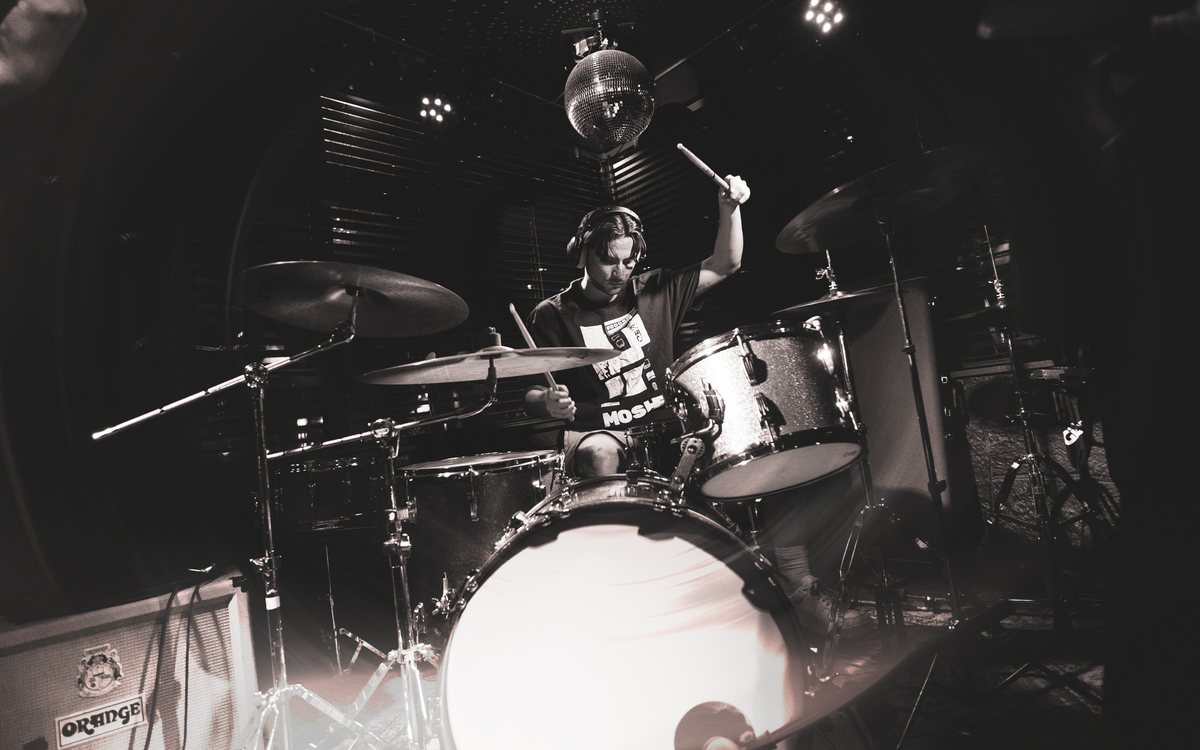
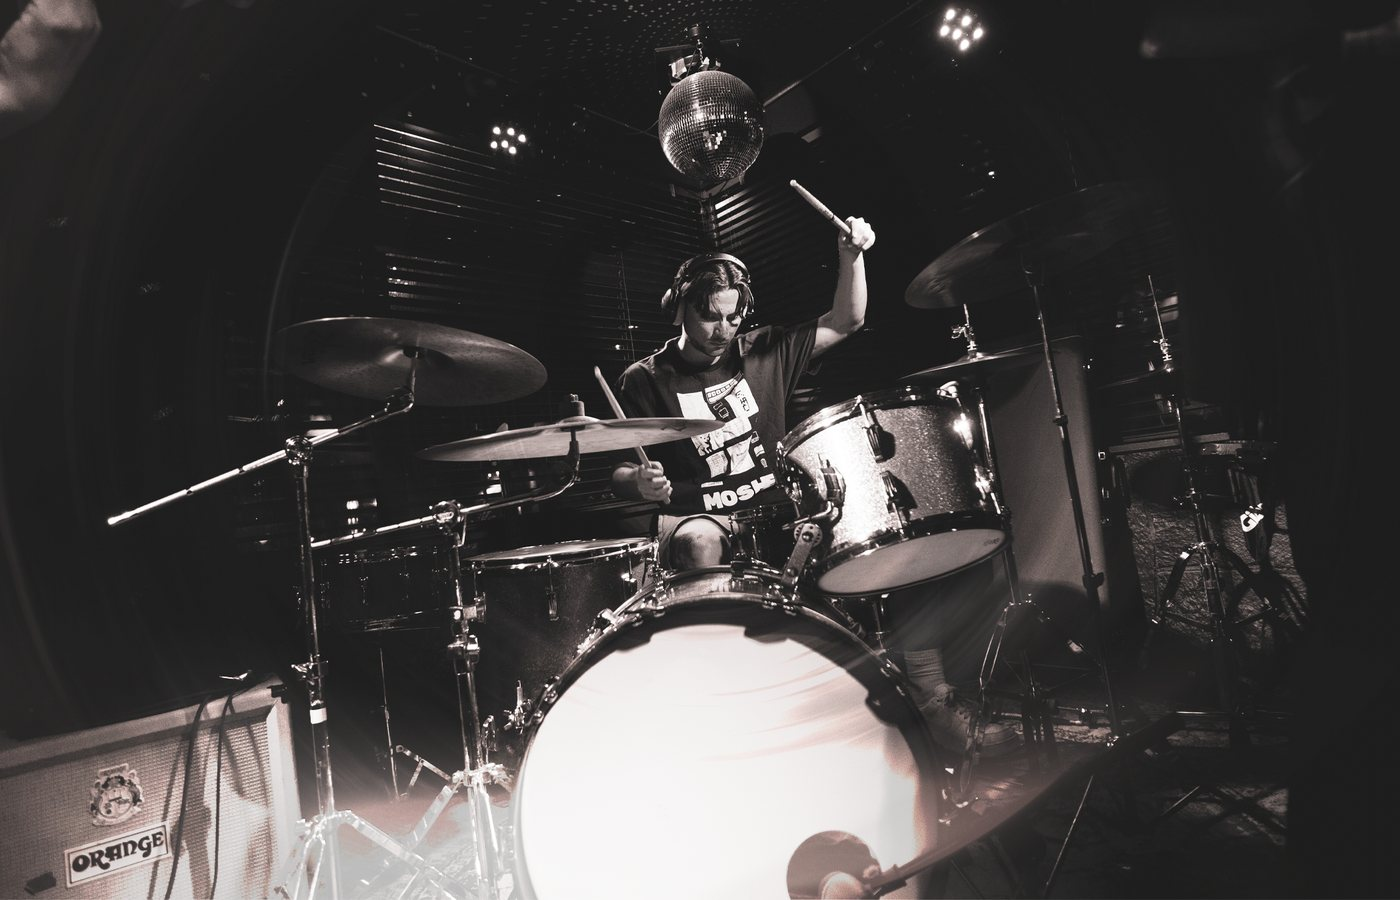
Real testimonials; natural photo treatment for bio, services, and live section
Claude-Session: https://claude.ai/code/session_01Apz1TNFNA7yt9g6RLvQNcU

diff --git a/styles.css b/styles.css
@@ -174,23 +174,16 @@ body.modal-open{overflow:hidden}
 @media (max-width:560px){.svc-grid{grid-template-columns:1fr;max-width:460px}}
 .svc{
   position:relative;display:flex;flex-direction:column;overflow:hidden;
-  border-radius:18px;
-  background:linear-gradient(180deg,rgba(28,18,44,.72) 0%,rgba(14,10,22,.82) 100%);
-  border:1px solid rgba(192,132,252,.2);
-  transition:transform .35s cubic-bezier(.2,.7,.2,1),border-color .3s ease,background .3s ease,box-shadow .35s ease;
+  border-radius:8px;background:#0e0b14;
+  border:1px solid rgba(255,255,255,.12);
+  transition:transform .3s ease,border-color .3s ease,background .3s ease;
 }
-.svc.reveal.in:hover{
-  transform:translateY(-8px);
-  border-color:rgba(192,132,252,.6);
-  background:linear-gradient(180deg,rgba(42,26,68,.82) 0%,rgba(20,13,32,.9) 100%);
-  box-shadow:0 22px 48px rgba(0,0,0,.5);
-}
-.svc.reveal{transition:opacity .8s ease,transform .35s cubic-bezier(.2,.7,.2,1),border-color .3s ease,background .3s ease,box-shadow .35s ease}
-.svc-media{position:relative;aspect-ratio:4/3;overflow:hidden;background:#0c0912}
-.svc-media img{width:100%;height:100%;object-fit:cover;transition:transform .9s cubic-bezier(.2,.7,.2,1)}
+.svc.reveal{transition:opacity .8s ease,transform .3s ease,border-color .3s ease,background .3s ease}
+.svc.reveal.in:hover{transform:translateY(-6px);border-color:rgba(192,132,252,.55);background:#141019}
+.svc-media{position:relative;aspect-ratio:4/3;overflow:hidden;background:#0c0912;margin:10px 10px 0;border-radius:4px}
+.svc-media img{width:100%;height:100%;object-fit:cover;display:block}
 .svc-media img.mic{object-position:center 42%}
-.svc:hover .svc-media img{transform:scale(1.04)}
-.svc-body{display:flex;flex-direction:column;flex:1;padding:24px 26px 28px}
+.svc-body{display:flex;flex-direction:column;flex:1;padding:22px 22px 26px}
 .svc h3{font-weight:700;font-size:clamp(21px,1.7vw,25px);letter-spacing:-0.02em;line-height:1.2;margin-bottom:10px}
 .svc p{font-size:15px;line-height:1.65;color:var(--ink-soft);margin-bottom:24px;flex:1}
 .svc .btn{align-self:flex-start;white-space:nowrap;font-size:11.5px;letter-spacing:.1em;padding:11px 18px}
@@ -327,12 +320,14 @@ body.modal-open{overflow:hidden}
 .about-row.right .about-photo{order:2}
 .about-row.right .about-text{order:1;text-align:right;border-left:none;border-right:2px solid var(--brand);padding-left:0;padding-right:30px;margin-left:auto}
 .about-row.right .about-ctas{justify-content:flex-end}
-.about-photo{position:relative;border-radius:20px;overflow:hidden;aspect-ratio:4/5;background:#111}
+.about-photo{position:relative;border-radius:4px;overflow:hidden;aspect-ratio:4/5;background:#111}
 .about-photo img{width:100%;height:100%;object-fit:cover;object-position:52% center;display:block}
-.about-photo.split{display:grid;grid-template-rows:1fr 1fr;gap:4px;background:var(--bg)}
-.about-photo.split img{height:100%;min-height:0;object-position:center}
-.about-photo.split img:first-child{object-position:center 20%}
-.about-photo::after{content:"";position:absolute;inset:0;box-shadow:inset 0 0 0 1px rgba(255,255,255,.1);border-radius:inherit;pointer-events:none}
+.about-prints{position:relative;padding-bottom:22%}
+.about-prints img{display:block}
+.print-stage{width:92%;height:auto;border-radius:3px}
+.print-young{position:absolute;right:0;bottom:0;width:44%;height:auto;
+  padding:8px 8px 26px;background:#f2efe9;border-radius:2px;
+  transform:rotate(2.5deg);box-shadow:0 14px 30px rgba(0,0,0,.55)}
 .about-text{max-width:600px;border-left:2px solid var(--brand);padding-left:30px}
 .about-text .hello{font-weight:600;font-size:clamp(22px,2.1vw,28px);line-height:1.35;letter-spacing:-0.015em;margin-bottom:20px}
 .about-text .hello span{color:var(--purple-bright)}
@@ -345,7 +340,7 @@ body.modal-open{overflow:hidden}
 .about-row.in{opacity:1;transform:none}
 @media (max-width:900px){
   .about-row,.about-row.right{grid-template-columns:1fr;gap:28px}
-  .about-photo{max-width:440px;width:100%;margin:0 auto}
+  .about-photo,.about-prints{max-width:440px;width:100%;margin:0 auto}
   .about-row.right .about-photo{order:0}
   .about-row.right .about-text{order:1;text-align:left;border-right:none;border-left:2px solid var(--brand);padding-right:0;padding-left:22px;margin-left:0}
   .about-row.right .about-ctas{justify-content:flex-start}
@@ -355,24 +350,21 @@ body.modal-open{overflow:hidden}
 /* =========================================================
    LIVE SOUND
    ========================================================= */
-.live .bg-media img{object-position:center 42%;filter:brightness(2.1) contrast(1.05) saturate(1.1)}
-.live .bg-shade{background:linear-gradient(180deg,var(--bg) 0%,rgba(6,4,9,.74) 14%,rgba(6,4,9,.8) 86%,var(--bg) 100%)}
-.live .section-head{margin-bottom:clamp(24px,3vw,36px)}
-.live-wrap{max-width:860px;margin:0 auto}
-.live-summary{font-size:clamp(16px,1.25vw,18px);line-height:1.75;color:var(--ink-soft);text-align:center;max-width:720px;margin:0 auto clamp(32px,4vw,44px)}
-.live-panel{
-  display:grid;grid-template-columns:minmax(0,1.15fr) minmax(0,1fr);gap:clamp(24px,4vw,48px);
-  border-radius:18px;padding:clamp(24px,3vw,34px) clamp(22px,3.4vw,40px);
-  background:rgba(12,10,16,.6);border:1px solid rgba(255,255,255,.12);
-  backdrop-filter:blur(14px);-webkit-backdrop-filter:blur(14px);
-}
-.live-panel h3{font-weight:600;font-size:12px;letter-spacing:.2em;text-transform:uppercase;color:var(--purple-bright);margin-bottom:14px}
+.live-layout{display:grid;grid-template-columns:minmax(0,.9fr) minmax(0,1.1fr);gap:clamp(32px,5vw,72px);align-items:center;max-width:1140px;margin:0 auto}
+.live-photo{margin:0}
+.live-photo img{display:block;width:100%;height:auto;border-radius:4px}
+.live-summary{font-size:clamp(16px,1.2vw,17.5px);line-height:1.75;color:var(--ink-soft);margin-bottom:30px}
+.live-lists{display:grid;grid-template-columns:repeat(2,minmax(0,1fr));gap:clamp(20px,3vw,40px);margin-bottom:32px}
+.live-lists h3{font-weight:600;font-size:12px;letter-spacing:.2em;text-transform:uppercase;color:var(--purple-bright);margin-bottom:10px}
 .live-list{list-style:none;margin:0;padding:0}
-.live-list li{font-size:15.5px;line-height:1.5;color:var(--ink-soft);padding:9px 0;border-bottom:1px solid var(--line)}
+.live-list li{font-size:15.5px;line-height:1.5;color:var(--ink-soft);padding:8px 0;border-bottom:1px solid var(--line)}
 .live-list li:last-child{border-bottom:none}
 .live-list li.top{color:#fff;font-weight:500}
-.live-ctas{display:flex;justify-content:center;margin-top:clamp(28px,3.5vw,40px)}
-@media (max-width:700px){.live-panel{grid-template-columns:1fr}}
+@media (max-width:900px){
+  .live-layout{grid-template-columns:1fr}
+  .live-photo{max-width:480px;margin:0 auto}
+}
+@media (max-width:480px){.live-lists{grid-template-columns:1fr}}
 
 /* =========================================================
    TESTIMONIALS — staggered rows
@@ -608,9 +600,6 @@ body.modal-open{overflow:hidden}
   *,*::before,*::after{animation:none!important;transition:none!important}
   .reveal,.from-left,.from-right{opacity:1;transform:none}
 }
-/* Testimonials hidden for now: title only */
-.testimonials{padding-bottom:clamp(20px,3vw,40px)}
-.testimonials .section-head{margin-bottom:0}
 
 /* ---------- Mobile polish ---------- */
 @supports (overflow:clip){html,body{overflow-x:clip}}

diff --git a/index.html b/index.html
@@ -141,9 +141,9 @@
     </header>
     <div class="about-rows">
       <div class="about-row from-left">
-        <div class="about-photo split">
-          <img src="assets/about-young.jpg" alt="Jack as a kid behind his first drum kit" loading="lazy">
-          <img src="assets/about-stage.jpg" alt="Jack playing drums on stage" loading="lazy">
+        <div class="about-prints">
+          <img class="print-stage" src="assets/about-stage.jpg" alt="Jack playing drums on stage" loading="lazy">
+          <img class="print-young" src="assets/about-young.jpg" alt="Jack as a kid behind his first drum kit" loading="lazy">
         </div>
         <div class="about-text">
           <p class="hello">My name is <span>Jack</span>.</p>
@@ -170,39 +170,42 @@
 
 <!-- ================= LIVE SOUND ================= -->
 <section class="section live" id="live">
-  <div class="bg-media" aria-hidden="true"><img src="assets/live-bg.jpg" alt="" loading="lazy"></div>
-  <div class="bg-shade" aria-hidden="true"></div>
-  <div class="wrap live-wrap">
+  <div class="wrap">
     <header class="section-head reveal">
       <h2 class="h2">Live Event <span class="accent">Production</span></h2>
       <p class="lede"><strong>Available for Tour</strong></p>
     </header>
-    <p class="live-summary reveal">Front of house, monitors, and system tech for concerts, multi-stage festivals, touring acts, and corporate events. Currently the primary FOH for a national country act with 5 years of prior experience freelancing with local and international production companies working shows up to 5,000 capacity.</p>
-    <div class="live-panel reveal">
-      <div>
-        <h3>Console Experience</h3>
-        <ul class="live-list">
-          <li class="top">Midas HD96</li>
-          <li class="top">Midas Pro Series</li>
-          <li class="top">Midas M32</li>
-          <li class="top">Behringer Wing</li>
-          <li>DiGiCo Quantum</li>
-          <li>Yamaha CL5</li>
-          <li>Allen &amp; Heath dLive</li>
-        </ul>
+    <div class="live-layout">
+      <figure class="live-photo reveal">
+        <img src="assets/live-photo.jpg" alt="Side-stage view of a band from behind a DiGiCo console" loading="lazy">
+      </figure>
+      <div class="live-info reveal">
+        <p class="live-summary">Front of house, monitors, and system tech for concerts, multi-stage festivals, touring acts, and corporate events. Currently the primary FOH for a national country act with 5 years of prior experience freelancing with local and international production companies working shows up to 5,000 capacity.</p>
+        <div class="live-lists">
+          <div>
+            <h3>Console Experience</h3>
+            <ul class="live-list">
+              <li class="top">Midas HD96</li>
+              <li class="top">Midas Pro Series</li>
+              <li class="top">Midas M32</li>
+              <li class="top">Behringer Wing</li>
+              <li>DiGiCo Quantum</li>
+              <li>Yamaha CL5</li>
+              <li>Allen &amp; Heath dLive</li>
+            </ul>
+          </div>
+          <div>
+            <h3>Certifications</h3>
+            <ul class="live-list">
+              <li>Shure Wireless Workbench 7</li>
+              <li>Dante Level 1</li>
+              <li>Dante Level 2</li>
+              <li>Allen &amp; Heath dLive</li>
+            </ul>
+          </div>
+        </div>
+        <a href="#" class="btn btn-sm" data-open-contact>Book Live Sound <span class="arrow">→</span></a>
       </div>
-      <div>
-        <h3>Certifications</h3>
-        <ul class="live-list">
-          <li>Shure Wireless Workbench 7</li>
-          <li>Dante Level 1</li>
-          <li>Dante Level 2</li>
-          <li>Allen &amp; Heath dLive</li>
-        </ul>
-      </div>
-    </div>
-    <div class="live-ctas reveal">
-      <a href="#" class="btn btn-sm" data-open-contact>Book Live Sound <span class="arrow">→</span></a>
     </div>
   </div>
 </section>
@@ -213,26 +216,16 @@
     <header class="section-head reveal">
       <h2 class="h2">Trusted by Artists&nbsp;&amp; <span class="accent">Production Teams</span></h2>
     </header>
-    <!-- TESTIMONIALS HIDDEN until real quotes are ready. Restore by removing this comment wrapper.
-        <div class="quotes">
-      <figure class="quote placeholder from-left">
-        <blockquote>Client quote goes here. A couple of sentences about working together and what Jack helped with.</blockquote>
-        <figcaption>Client Name<span>Role, band or company</span></figcaption>
+    <div class="quotes">
+      <figure class="quote from-left">
+        <blockquote>&ldquo;Jack is one of my favorite engineers to work with. He always minds the details and creates an environment where the band can shine!&rdquo;</blockquote>
+        <figcaption>Eric Henry Anderson<span>Singer, songwriter &amp; touring musician</span></figcaption>
       </figure>
-      <figure class="quote placeholder right from-right">
-        <blockquote>Client quote goes here. A couple of sentences about working together and what Jack helped with.</blockquote>
-        <figcaption>Client Name<span>Role, band or company</span></figcaption>
-      </figure>
-      <figure class="quote placeholder from-left">
-        <blockquote>Client quote goes here. A couple of sentences about working together and what Jack helped with.</blockquote>
-        <figcaption>Client Name<span>Role, band or company</span></figcaption>
-      </figure>
-      <figure class="quote placeholder right from-right">
-        <blockquote>Client quote goes here. A couple of sentences about working together and what Jack helped with.</blockquote>
-        <figcaption>Client Name<span>Role, band or company</span></figcaption>
+      <figure class="quote right from-right">
+        <blockquote>&ldquo;When I came to Jack to mix The Zines EP, I already knew that the final product would be exceptional. With our song, &lsquo;Goddamn Thing,&rsquo; he was able to creatively sample an audio excerpt from a 30-second VHS clip precisely as we requested. As we finalized the mixes and masters for the EP, he was able to perfectly align with our vision. Thank you Jack!&rdquo;</blockquote>
+        <figcaption>Ryan Kowalczuk<span>Lead guitarist, The Zines</span></figcaption>
       </figure>
     </div>
-    -->
   </div>
 </section>
 
